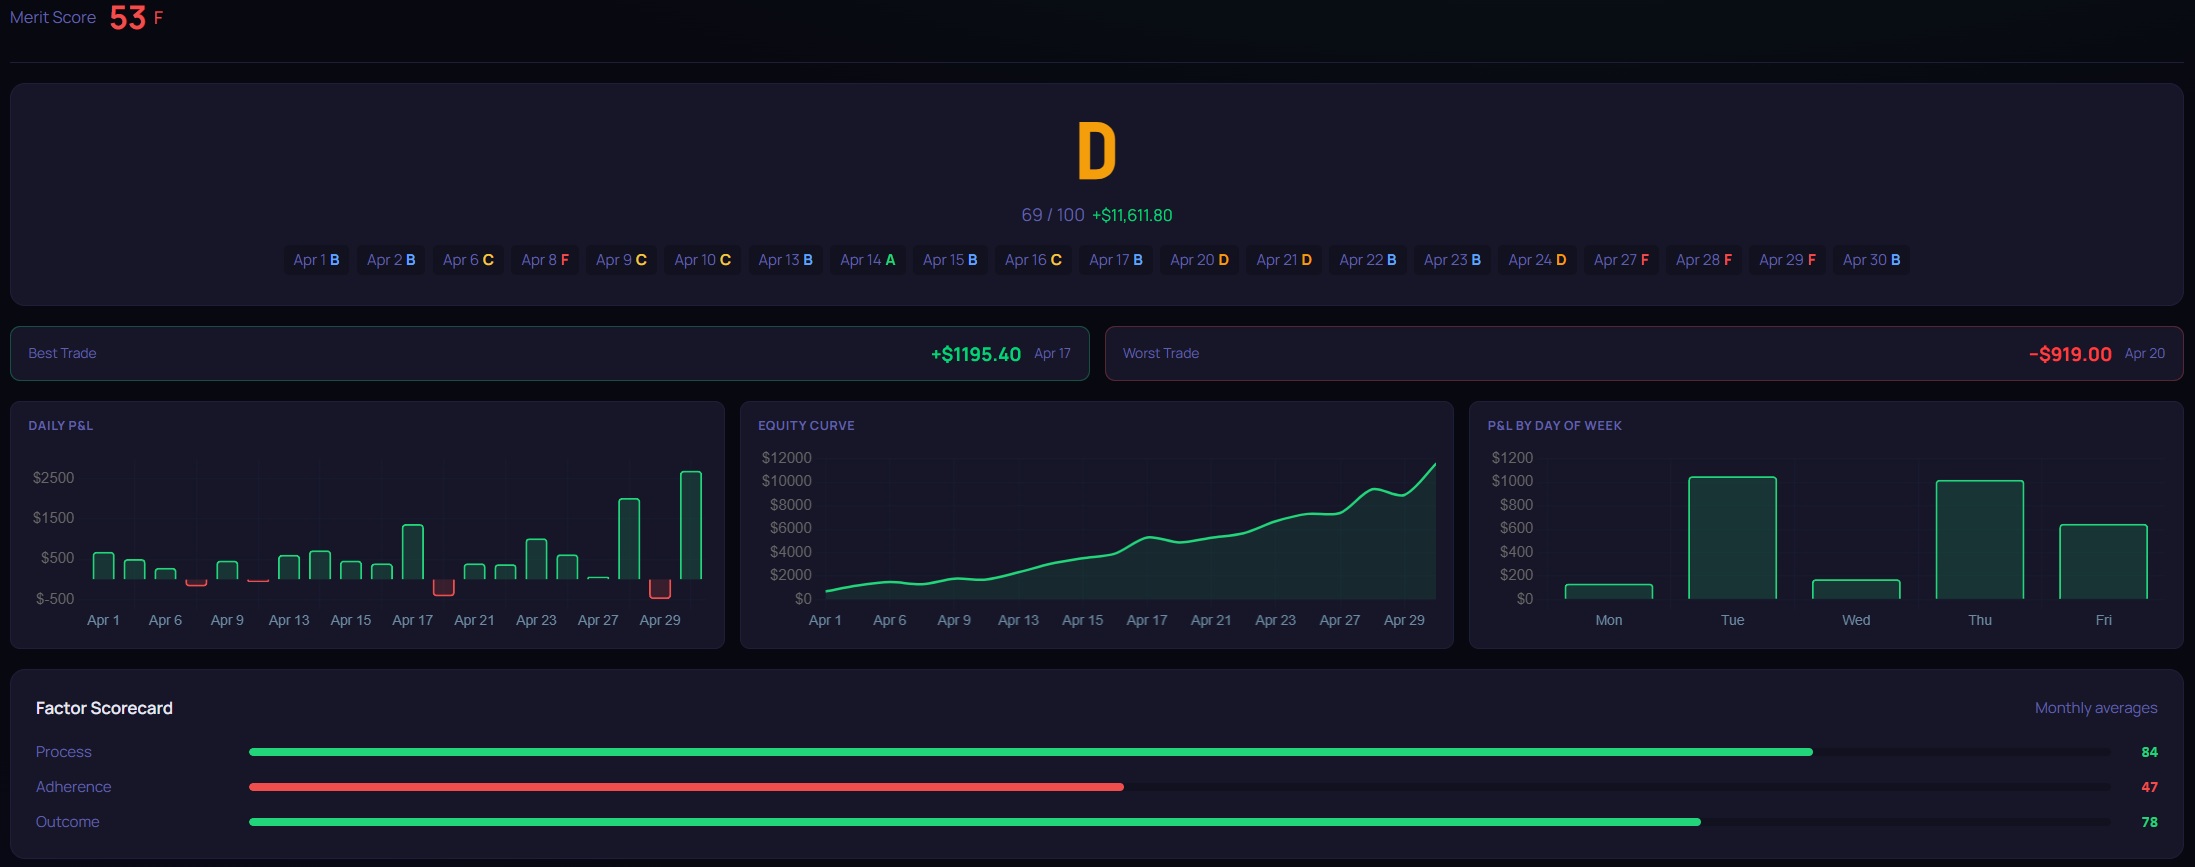
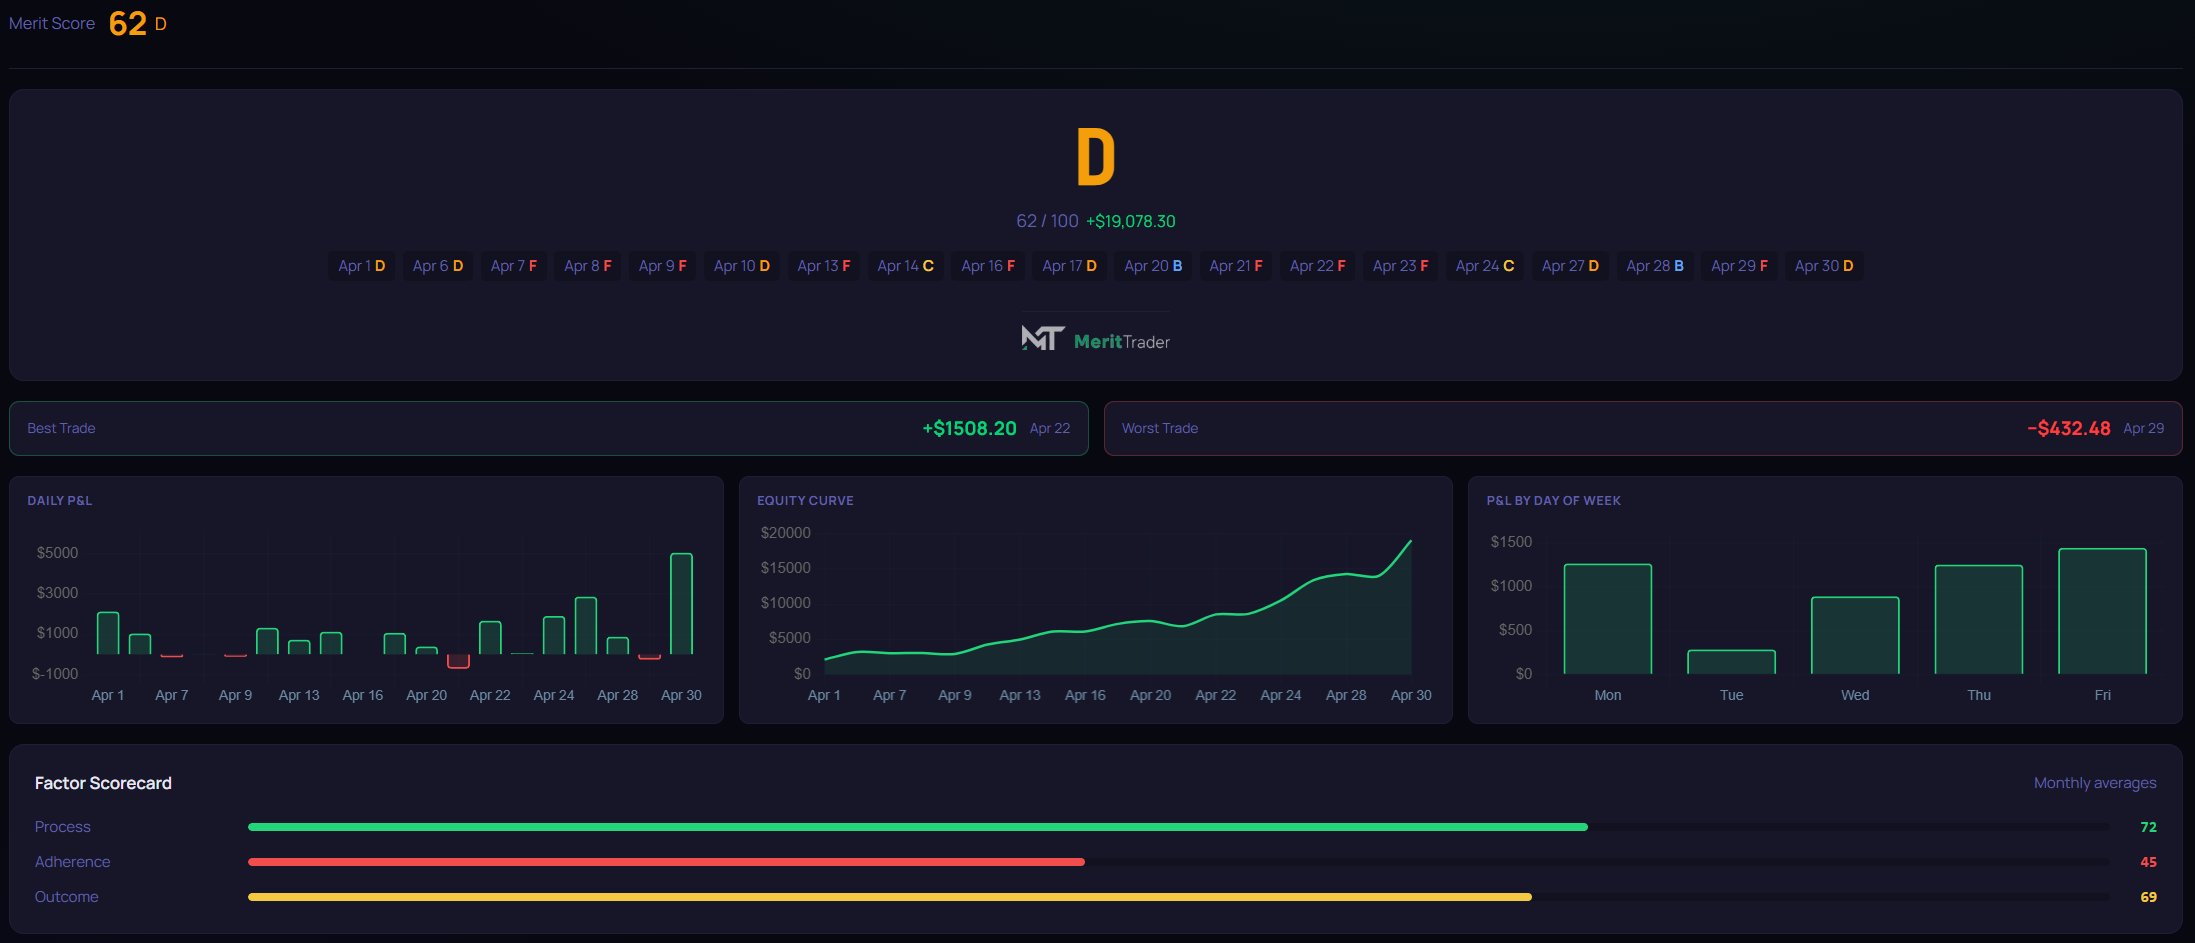
feat: update screenshots and Process description for Risk Controls rename

diff --git a/index.html b/index.html
@@ -214,7 +214,7 @@
         <div class="score-card">
           <div class="score-weight">35%</div>
           <div class="score-name">Process</div>
-          <div class="score-desc">Stop loss discipline and trade count — the execution decisions only you control.</div>
+          <div class="score-desc">Risk controls (stop loss usage, daily loss limit adherence) and trade count — the execution decisions only you control.</div>
         </div>
         <div class="score-card">
           <div class="score-weight">35%</div>
